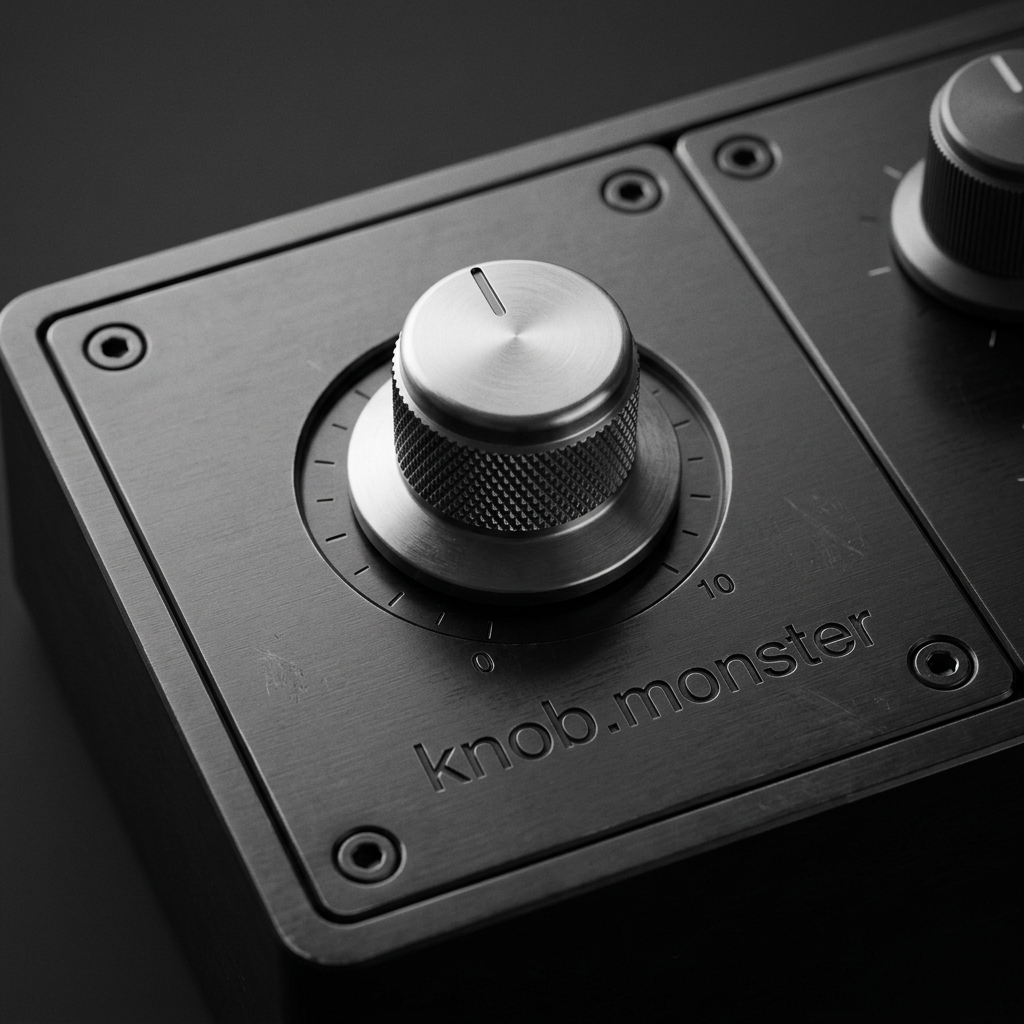
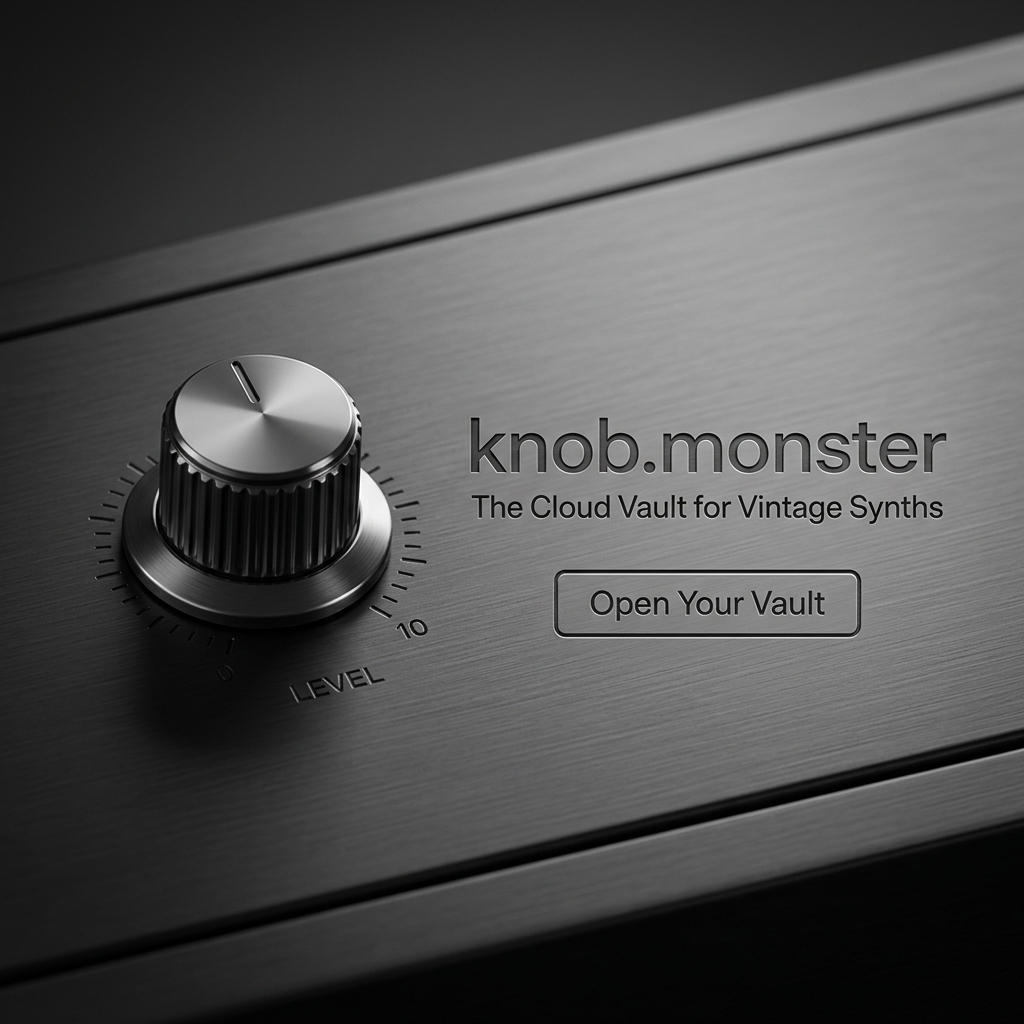
og image

diff --git a/main.py b/main.py
@@ -153,7 +153,7 @@ try:
         ("index_extraction_candid_1780849725170.png", "index_extraction.png"),
         ("dashboard_candid_1780849740378.png", "dashboard.png"),
         ("dashboard_candid_1780849740378.png", "dashboard_preview.png"),
-        ("og_image_monochrome_1782079984045.png", "og_banner.png")
+        ("og_image_cta_landscape_1782080333896.png", "og_banner.png")
     ]:
         src_path = os.path.join(src_dir, src_name)
         if os.path.exists(src_path):
@@ -238,7 +238,7 @@ async def startup_event():
         if os.path.exists(recall_src):
             shutil.copy(recall_src, os.path.join(dest_dir, "recall_button.png"))
 
-        og_src = os.path.join(src_dir, "og_image_monochrome_1782079984045.png")
+        og_src = os.path.join(src_dir, "og_image_cta_landscape_1782080333896.png")
         if os.path.exists(og_src):
             shutil.copy(og_src, os.path.join(dest_dir, "og_banner.png"))
             
